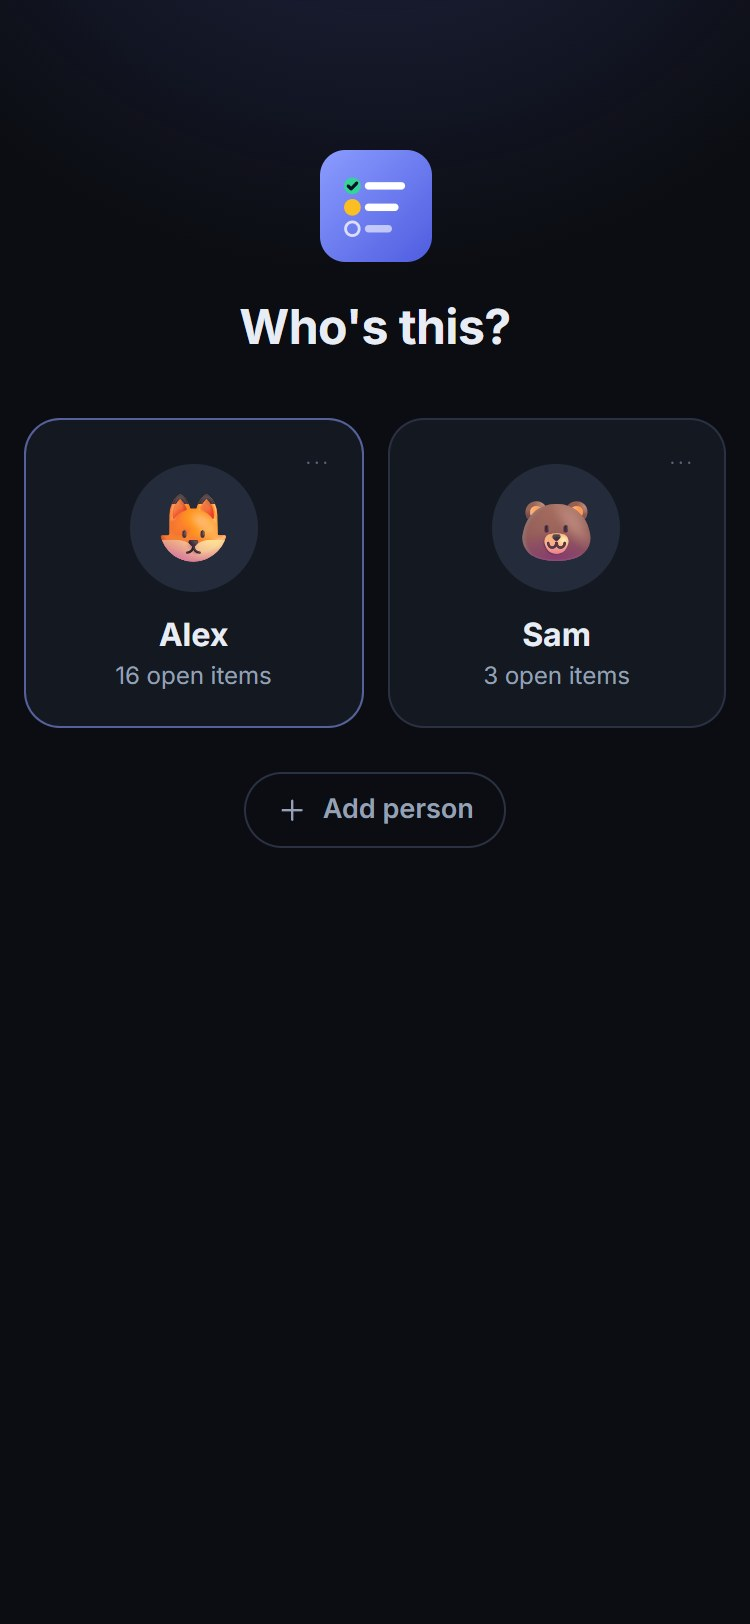
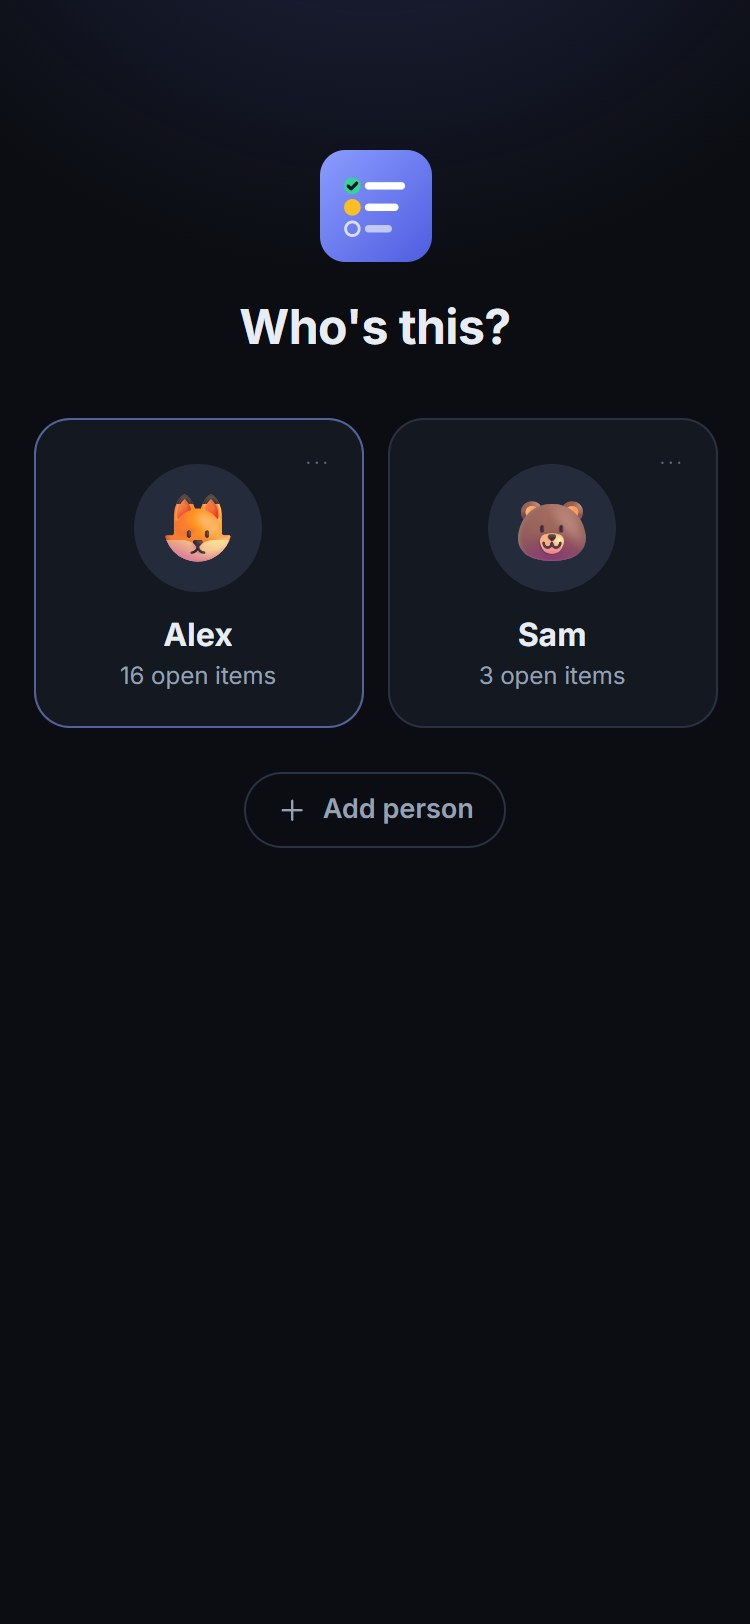
Minor fixes

diff --git a/project-tracker/public/css/tracker.css b/project-tracker/public/css/tracker.css
@@ -61,7 +61,8 @@ body.offline .offline-badge { display: inline-flex; }
 .home-tagline[hidden] + .people { margin-top: 22px; }   /* no line under the question: the tiles keep their distance */
 .people {
   display: grid;
-  grid-template-columns: repeat(auto-fill, minmax(140px, 1fr));
+  grid-template-columns: repeat(auto-fit, minmax(140px, 165px));
+  justify-content: center;
   gap: 12px;
   width: 100%;
   margin-bottom: 16px;
@@ -366,9 +367,7 @@ button.advance:active { transform: scale(0.85); background: var(--surface-3); }
 .fab {
   position: fixed;
   right: max(16px, calc((100% - 1240px) / 2 + 16px));
-  /* from the part of the screen you can see (js/ui/viewport.js), not the page's bottom: iPhone home-screen apps
-     report the page a little short at first, which would leave it too high until the first scroll */
-  top: calc(var(--viewport-top) + var(--viewport-height) - 54px - 18px - var(--safe-bottom));
+  bottom: calc(18px + var(--safe-bottom));
   z-index: 10;
   display: grid;
   place-items: center;

diff --git a/project-tracker/public/js/ui/viewport.js b/project-tracker/public/js/ui/viewport.js
@@ -1,6 +1,6 @@
 // Keeps --viewport-top and --viewport-height on the page equal to the part of the screen you can see,
 // which shrinks when the keyboard opens. Sheets are sized from them (css/base.css), so a sheet you type in
-// sits right above the keyboard instead of sliding under it; the round + and messages sit at its bottom.
+// sits right above the keyboard instead of sliding under it; messages sit at its bottom.
 // Phones without visualViewport keep the CSS fallbacks (the full screen).
 
 export function trackVisibleViewport() {

diff --git a/project-tracker/CHANGELOG.md b/project-tracker/CHANGELOG.md
@@ -1,5 +1,9 @@
 # Changelog
 
+## 2.0.1
+- Fix: people centered on a PC
+- Fix: + button wobbles on iPhone while scrolling
+
 ## 2.0.0
 - New screen to pick a project
 - The top bar stays in place while you scroll
